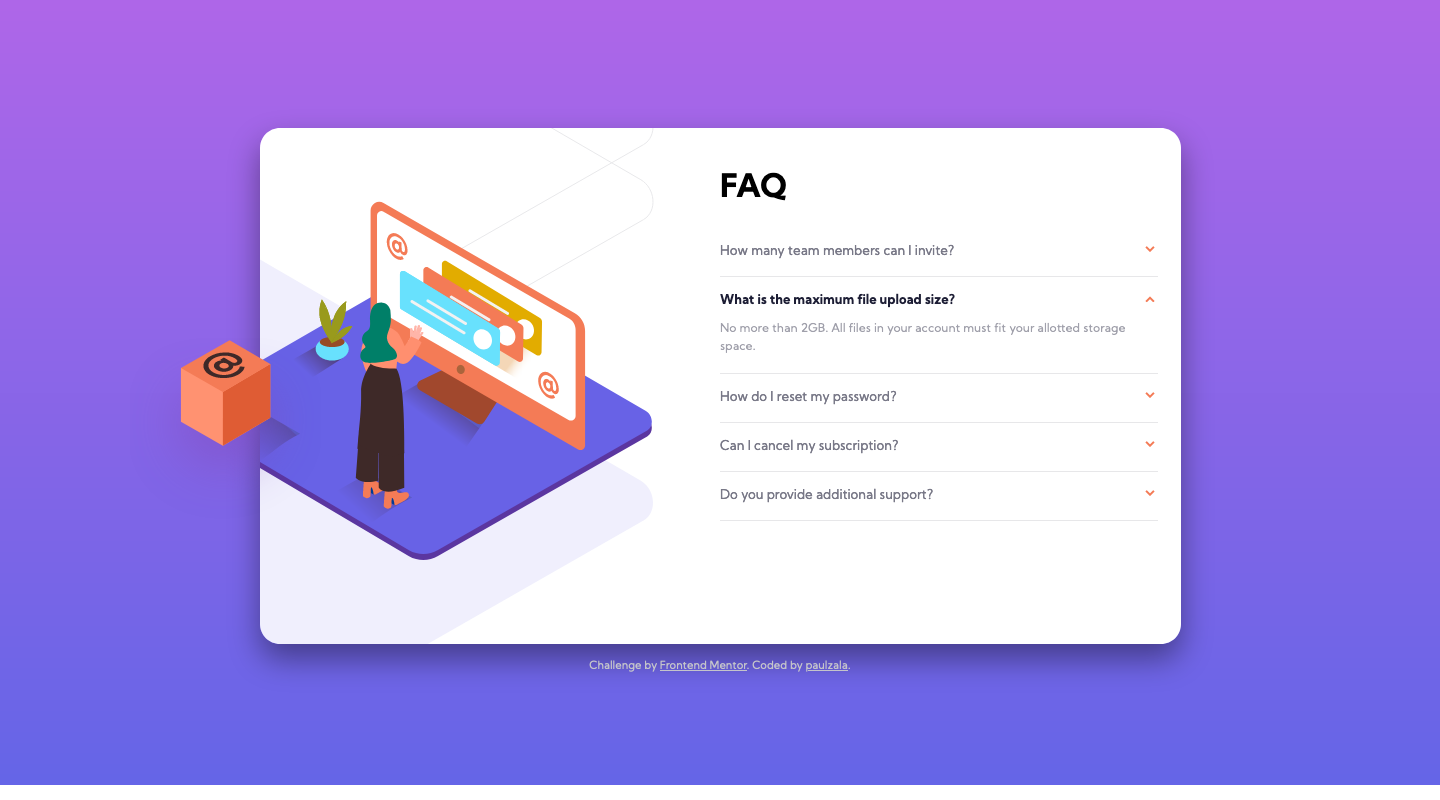
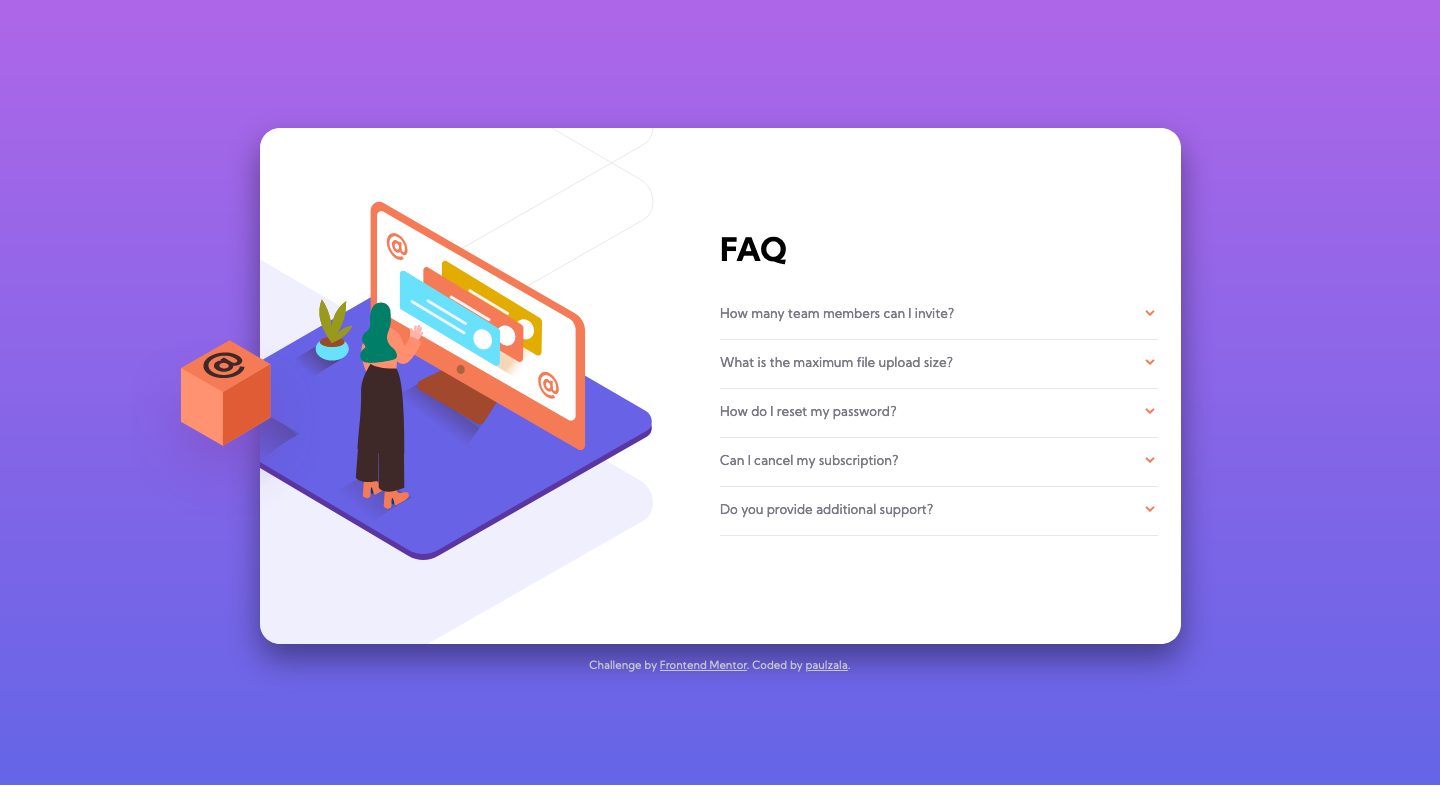
Master: One last update and a screenshot update

Changed region(s): [[0.5, 0.2812, 0.7812, 0.6562], [0.5, 0.2188, 0.5625, 0.25]]

diff --git a/css/style.css b/css/style.css
@@ -124,7 +124,13 @@ h1 {
         display: block;
     }
     h1 {
+        margin-top: 0;
         text-align: left;
+    }
+    main {
+        display: flex;
+        flex-flow: nowrap column;
+        justify-content: center;
     }
 }
 
